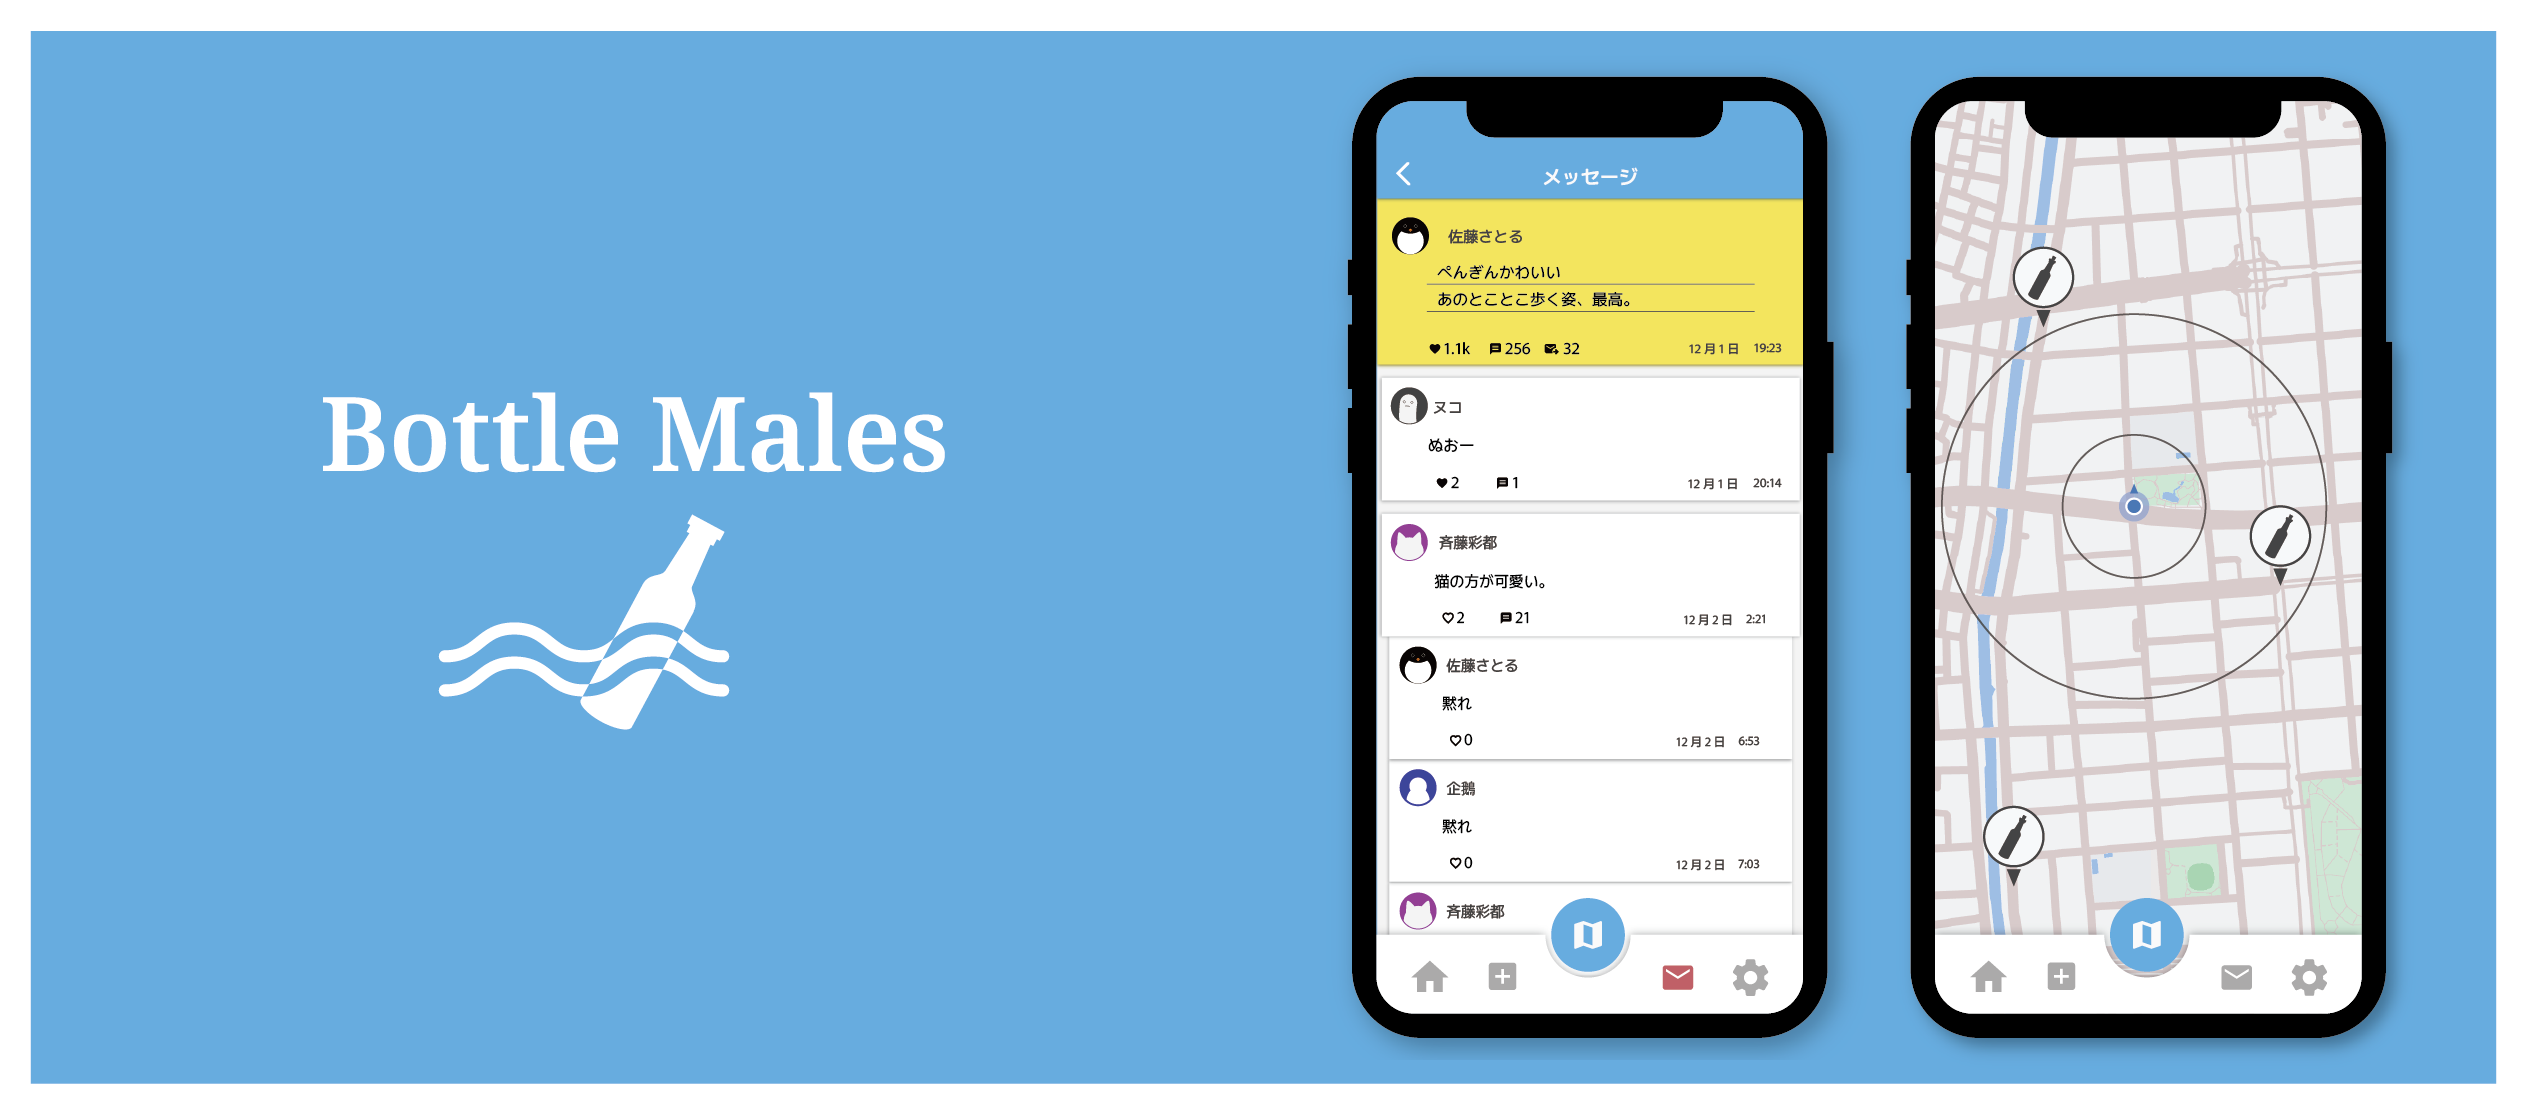
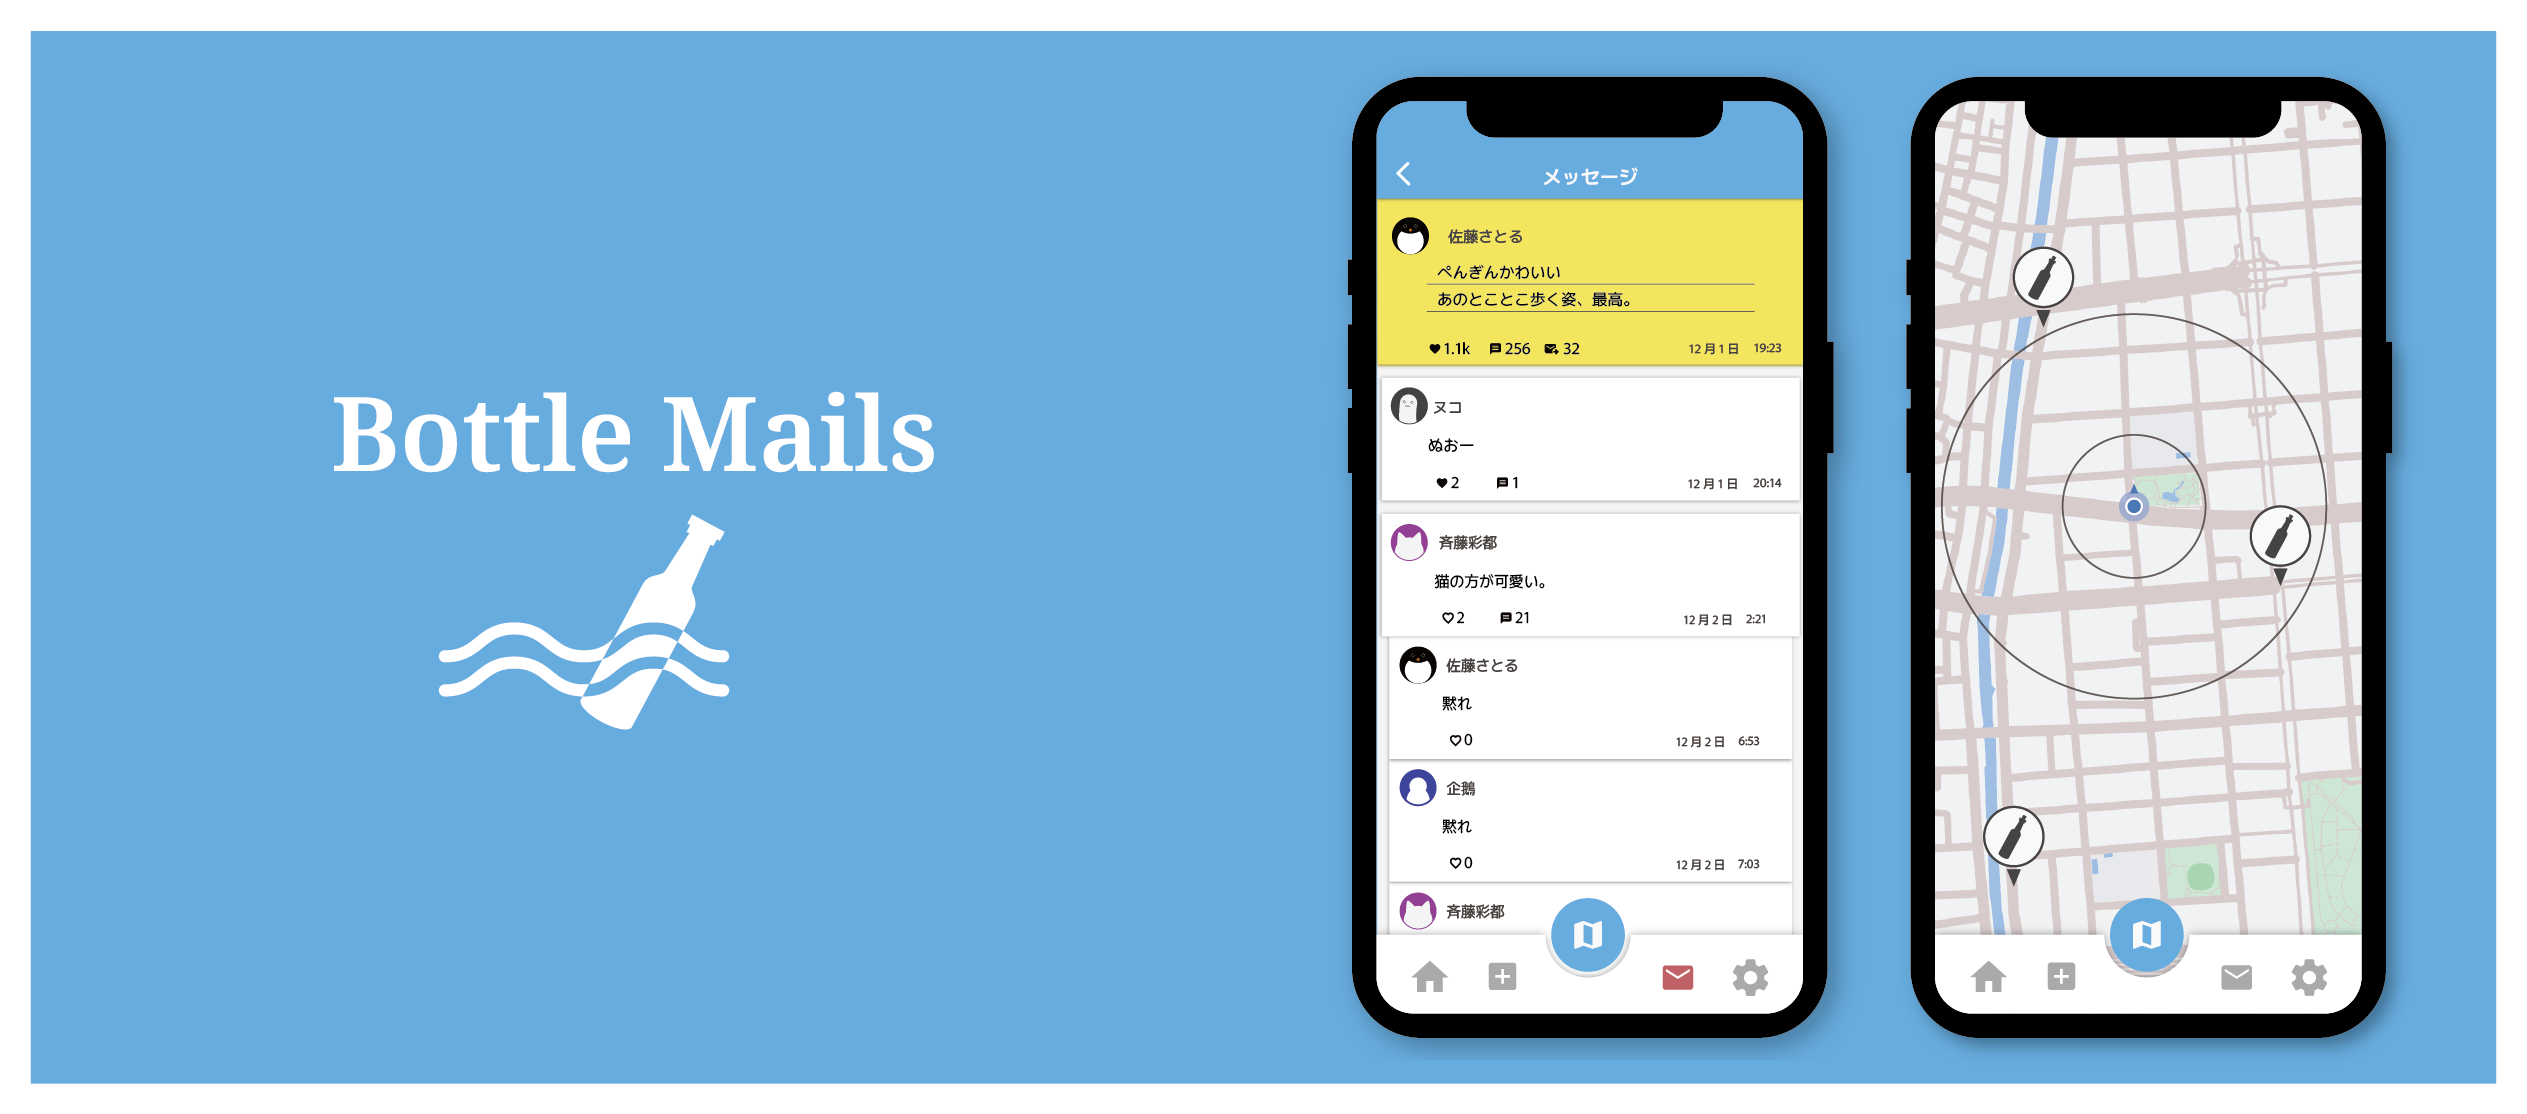
:pencil2: bottle males => bottle mails close #1

Changed region(s): [[0.1235, 0.3357, 0.3704, 0.4273]]

diff --git a/lib/main.dart b/lib/main.dart
@@ -7,11 +7,21 @@ void main() {
 class MyApp extends StatelessWidget {
   const MyApp({super.key});
 
+  // This widget is the root of your application.
   @override
   Widget build(BuildContext context) {
     return MaterialApp(
       title: 'Flutter Demo',
       theme: ThemeData(
+        // This is the theme of your application.
+        //
+        // Try running your application with "flutter run". You'll see the
+        // application has a blue toolbar. Then, without quitting the app, try
+        // changing the primarySwatch below to Colors.green and then invoke
+        // "hot reload" (press "r" in the console where you ran "flutter run",
+        // or simply save your changes to "hot reload" in a Flutter IDE).
+        // Notice that the counter didn't reset back to zero; the application
+        // is not restarted.
         primarySwatch: Colors.blue,
       ),
       home: const MyHomePage(title: 'Flutter Demo Home Page'),
@@ -21,6 +31,15 @@ class MyApp extends StatelessWidget {
 
 class MyHomePage extends StatefulWidget {
   const MyHomePage({super.key, required this.title});
+
+  // This widget is the home page of your application. It is stateful, meaning
+  // that it has a State object (defined below) that contains fields that affect
+  // how it looks.
+
+  // This class is the configuration for the state. It holds the values (in this
+  // case the title) provided by the parent (in this case the App widget) and
+  // used by the build method of the State. Fields in a Widget subclass are
+  // always marked "final".
 
   final String title;
 
@@ -33,18 +52,47 @@ class _MyHomePageState extends State<MyHomePage> {
 
   void _incrementCounter() {
     setState(() {
+      // This call to setState tells the Flutter framework that something has
+      // changed in this State, which causes it to rerun the build method below
+      // so that the display can reflect the updated values. If we changed
+      // _counter without calling setState(), then the build method would not be
+      // called again, and so nothing would appear to happen.
       _counter++;
     });
   }
 
   @override
   Widget build(BuildContext context) {
+    // This method is rerun every time setState is called, for instance as done
+    // by the _incrementCounter method above.
+    //
+    // The Flutter framework has been optimized to make rerunning build methods
+    // fast, so that you can just rebuild anything that needs updating rather
+    // than having to individually change instances of widgets.
     return Scaffold(
       appBar: AppBar(
+        // Here we take the value from the MyHomePage object that was created by
+        // the App.build method, and use it to set our appbar title.
         title: Text(widget.title),
       ),
       body: Center(
+        // Center is a layout widget. It takes a single child and positions it
+        // in the middle of the parent.
         child: Column(
+          // Column is also a layout widget. It takes a list of children and
+          // arranges them vertically. By default, it sizes itself to fit its
+          // children horizontally, and tries to be as tall as its parent.
+          //
+          // Invoke "debug painting" (press "p" in the console, choose the
+          // "Toggle Debug Paint" action from the Flutter Inspector in Android
+          // Studio, or the "Toggle Debug Paint" command in Visual Studio Code)
+          // to see the wireframe for each widget.
+          //
+          // Column has various properties to control how it sizes itself and
+          // how it positions its children. Here we use mainAxisAlignment to
+          // center the children vertically; the main axis here is the vertical
+          // axis because Columns are vertical (the cross axis would be
+          // horizontal).
           mainAxisAlignment: MainAxisAlignment.center,
           children: <Widget>[
             const Text(
@@ -61,7 +109,7 @@ class _MyHomePageState extends State<MyHomePage> {
         onPressed: _incrementCounter,
         tooltip: 'Increment',
         child: const Icon(Icons.add),
-      ),
+      ), // This trailing comma makes auto-formatting nicer for build methods.
     );
   }
 }

diff --git a/android/app/src/main/kotlin/me/satooru65536/bottlemailsapp/bottle_mails/MainActivity.kt b/android/app/src/main/kotlin/me/satooru65536/bottlemailsapp/bottle_mails/MainActivity.kt
@@ -1,4 +1,4 @@
-package com.example.online_bottle_male
+package me.satooru65536.bottlemailsapp.bottle_mails
 
 import io.flutter.embedding.android.FlutterActivity
 

diff --git a/docment/specification.md b/docment/specification.md
@@ -7,9 +7,9 @@
 
 
 ## 画面イメージ
-![画面イメージ-1](images/app_image/app-image-1.png)
-![画面イメージ-2](images/app_image/app-image-2.png)
-![画面イメージ-3](images/app_image/app-image-3.png)
+![画面イメージ-1](images/app-images/app-image-1.png)
+![画面イメージ-2](images/app-images/app-image-2.png)
+![画面イメージ-3](images/app-images/app-image-3.png)
 
 1. **ロード画面**  
 2. **ログイン画面**  
